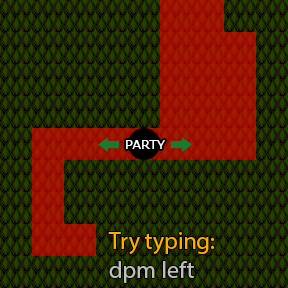
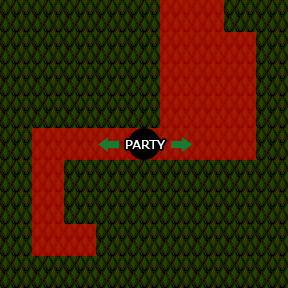
tweaking tutorials

Changed region(s): [[0.375, 0.7812, 0.75, 1.0]]

diff --git a/assets/maps/Tutorial/TutorialEvents.ts b/assets/maps/Tutorial/TutorialEvents.ts
@@ -1,4 +1,5 @@
 import { IMapData } from "../../../src/core/map/IMapData";
+import EventTileEnterMessage from "../../../src/core/map/tiles/EventTileEnterMessage";
 
 export const TutorialEvents:IMapData = {
     startX: 6,
@@ -8,6 +9,17 @@ export const TutorialEvents:IMapData = {
         
     ],
     eventTiles: [
-
+        {
+            coords: [
+                {
+                    x: 6,
+                    y: 17,
+                },
+            ],
+            event: new EventTileEnterMessage({
+                stopsPlayer: true,
+                message: 'Here\'s where you are right now!\n\nTry typing `dpm left`',
+            }),
+        }
     ],
 };
